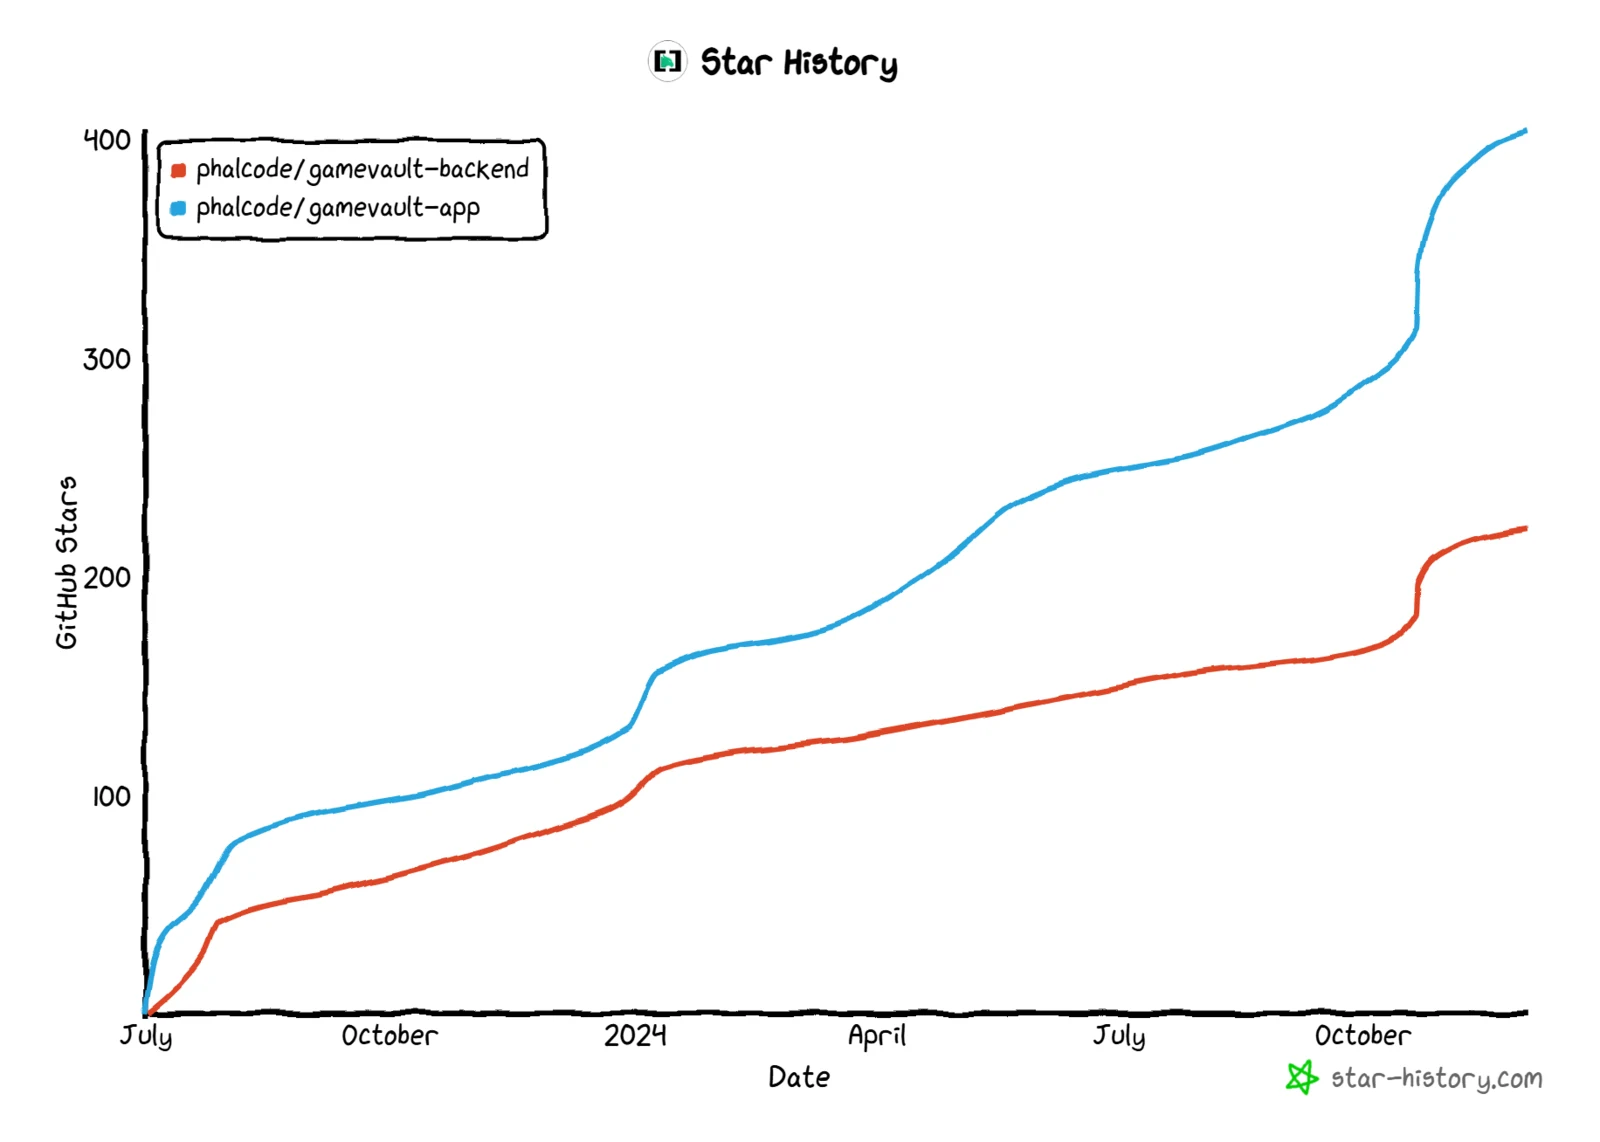
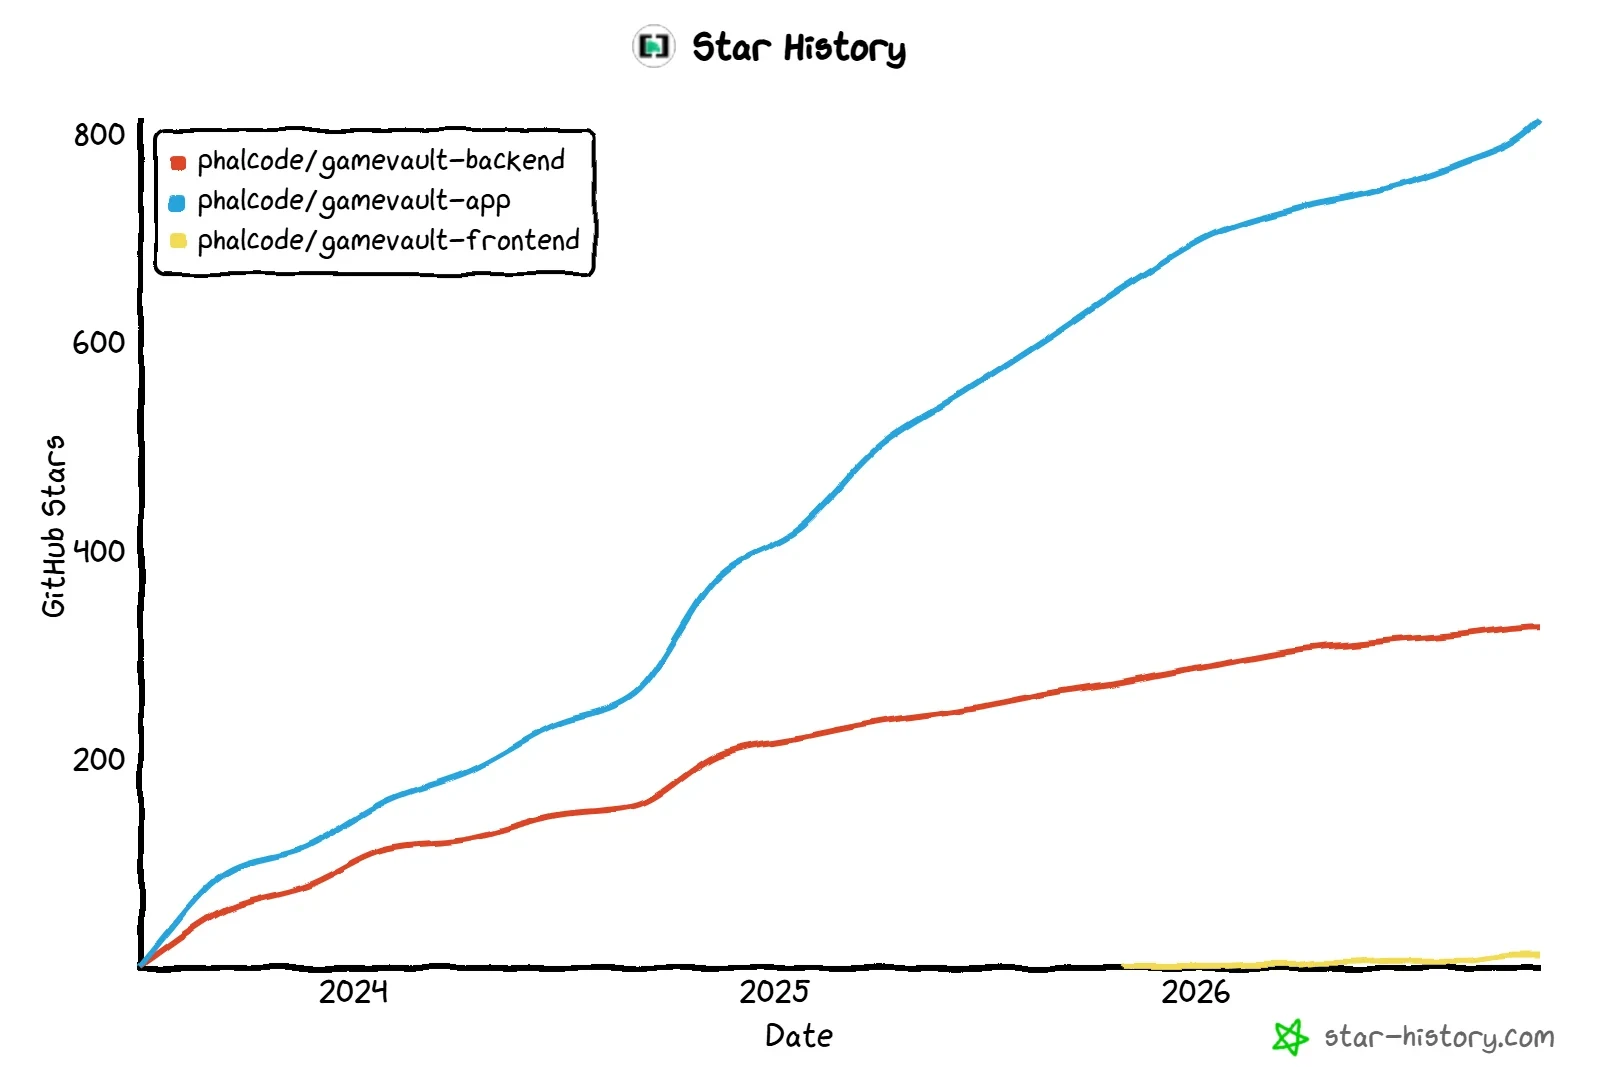
docs: refresh star history chart with the new client repo

diff --git a/screenshots-source/README.md b/screenshots-source/README.md
@@ -13,3 +13,10 @@ magick source.png -strip -resize 1600x -quality 85 static/img/screenshots/<date>
 
 Keep the folder name as the capture date, and never commit the Windows
 `:Zone.Identifier` sidecar files.
+
+The star chart in `static/img/features/stars.webp` is generated instead of
+captured. Open this URL and save the SVG as a 1600 px wide WebP:
+
+```text
+https://api.star-history.com/svg?repos=Phalcode/gamevault-backend,Phalcode/gamevault-app,Phalcode/gamevault-frontend&type=Date
+```
